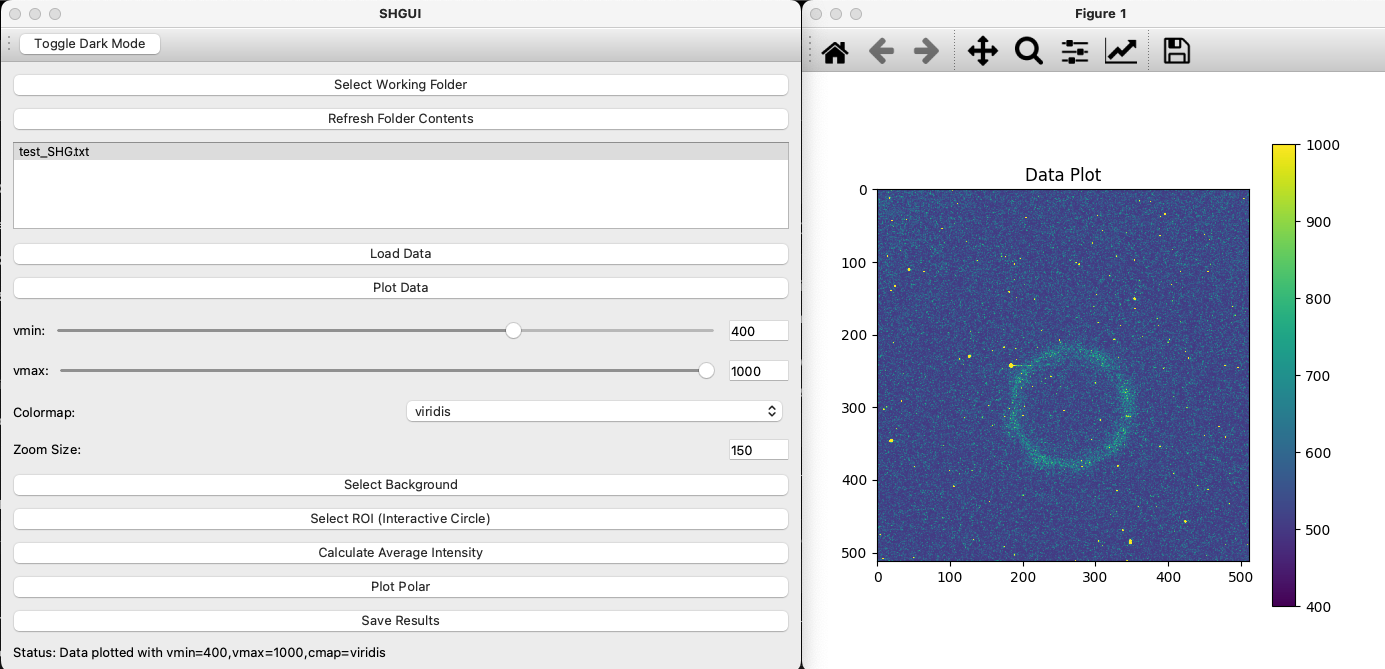
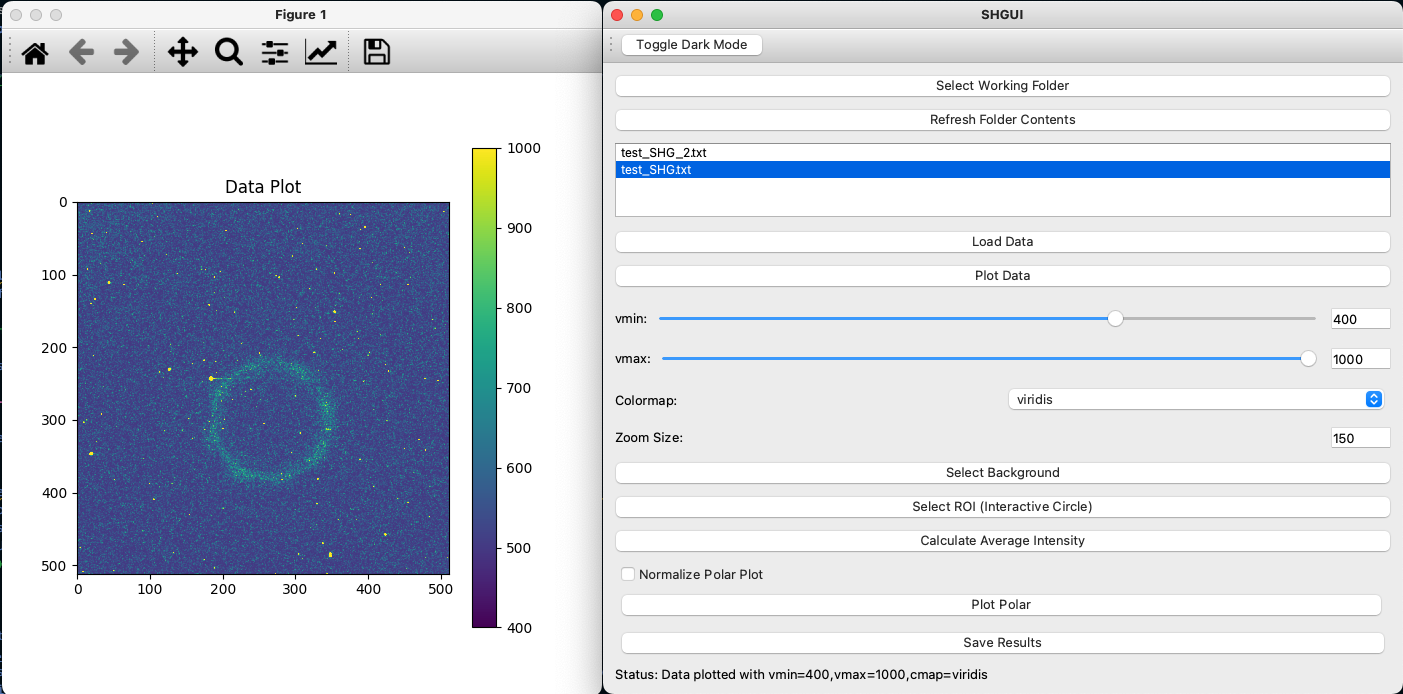
Updated README and images -- also duplicate test file

diff --git a/README.md b/README.md
@@ -68,9 +68,14 @@ Next the user will be prompted to select the working directory and load in the f
 Following the inital visualization the user then will be prompted to select the background signal and ROI. First the background which is done by selecting a region and pressing the "Enter" or "return" key based on keyboard config. When all the relevant regions are selected the user can press "e" to exit which will display the final background value on the static plot. Here you see the 3 prompts given and see how the user did not confirm the last region of the third plot as it's border remained red. 
 ![SHGUI bkg1](Images/image3.png)
 ![SHGUI bkg2](Images/image4.png)
-![SHGUI bkg3](Images/image5.png)
-Selecting the ROI The user must first select the center of the SHG signal. This center will then be zommed on by the set zoom value. Confirming the click is with the left click to select and right click to confirm. The remaining processes are explained above.
-
+Selecting the ROI The user must first select the center of the SHG signal. This center will then be zommed on by the set zoom value. Confirming the click is with the left click to select and right click to confirm. Process is illustrated with the below figure.
+![SHGUI ROI](Images/image5.png)
+Following the user should press the "Calculate Average Intensity" button which will prompt a bin size (which is the bin size in degrees the user wishes to bin the data by -- this will be saved in the .txt file). After this it will display a x,y plot of the integrated data with the background subtracted and binned. This will also update the available data to be plotted and saved.
+![SHGUI Int](Images/image6.png)
+Following this the user can do a polar plot of the data and compare data sets easily by selecting then in the list.
+![SHGUI polar](Images/image7.png)
+Once complete all the data can then be saved to a txt file for further analysis.
+<hr>
 
 ## DataPlotter Analysis Class
 The `DataPlotter` class is responsible for the core analysis functionalities. Below are the methods available:
